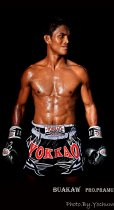
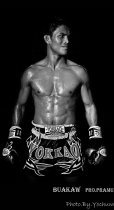
changed to B/W profil pictures

Changed region(s): [[0.1053, 0.1143, 0.8684, 0.6571], [0.2368, 0.6571, 0.7105, 0.7714]]

diff --git a/css/main.css b/css/main.css
@@ -119,7 +119,7 @@
 
 /* line 13, ../scss/_general.scss */
 body {
-  background: #00BFFF;
+  background: #036;
   color: #FFF;
   font-family: 'Lato', Arial, sans-serif;
 }
@@ -670,12 +670,12 @@ footer {
 /* Section color alternance */
 /* line 48, ../scss/_sections.scss */
 .color-separator:nth-child(odd) {
-  background: #00BFFF;
+  background: #036;
 }
 
 /* line 51, ../scss/_sections.scss */
 .color-separator:nth-child(even) {
-  background: #00a4db;
+  background: #002142;
 }
 
 /* Common style for pseudo-elements */
@@ -732,7 +732,7 @@ section::after {
   top: -25px;
   background: inherit;
   box-shadow: -50px 50px 0, 50px -50px 0;
-  color: #00BFFF;
+  color: #036;
 }
 
 /* line 104, ../scss/_sections.scss */
@@ -740,7 +740,7 @@ section::after {
   bottom: -25px;
   background: inherit;
   box-shadow: -50px 50px 0, 50px -50px 0;
-  color: #00BFFF;
+  color: #036;
 }
 
 /* Half Circle */
@@ -796,7 +796,7 @@ section::after {
 .logo {
   margin: 0 auto;
   margin-top: 20px;
-  background: #00BFFF;
+  background: #036;
   width: 200px;
   height: 200px;
   border-radius: 100px;
@@ -858,7 +858,7 @@ header h1 span {
 /* line 59, ../scss/_targeted.scss */
 div.oddTitle,
 div.evenTitle {
-  background: #00BFFF;
+  background: #036;
   border-radius: 10px;
   margin-top: 20px;
   margin-bottom: 20px;
@@ -911,8 +911,8 @@ div.evenTitle {
 /* line 98, ../scss/_targeted.scss */
 .panel-default > .panel-heading,
 .panel {
-  background: #00BFFF;
-  background-color: #00BFFF;
+  background: #036;
+  background-color: #036;
 }
 
 /* line 103, ../scss/_targeted.scss */
@@ -927,7 +927,7 @@ div.evenTitle {
 
 /* line 109, ../scss/_targeted.scss */
 .panel-default {
-  border: #00BFFF;
+  border: #036;
 }
 
 /* line 113, ../scss/_targeted.scss */

diff --git a/index.html b/index.html
@@ -297,7 +297,7 @@
 					<p>Amet nemo expedita voluptatem voluptatum modi ullam excepturi, hic exercitationem a assumenda. Quae laborum aspernatur.</p>
 				</div>
 				<div class="col-md-3 col-sm-6 col-xs-12">
-					<img src="images/small/profil3.JPG" alt="" class="pulse">
+					<img src="images/small/profil3.jpg" alt="" class="pulse">
 					<h3>Kamogawa Genji</h3>
 					<p>Lorem aperiam ea dicta molestiae quas omnis architecto. Itaque nostrum fuga doloribus repellendus alias animi.</p>
 				</div>

diff --git a/scss/_colors.scss b/scss/_colors.scss
@@ -1,5 +1,5 @@
 // General
-$bgColor: #00BFFF;
+$bgColor: #036;
 $textColor: #FFF;
 $highlightColor: #999;
 
